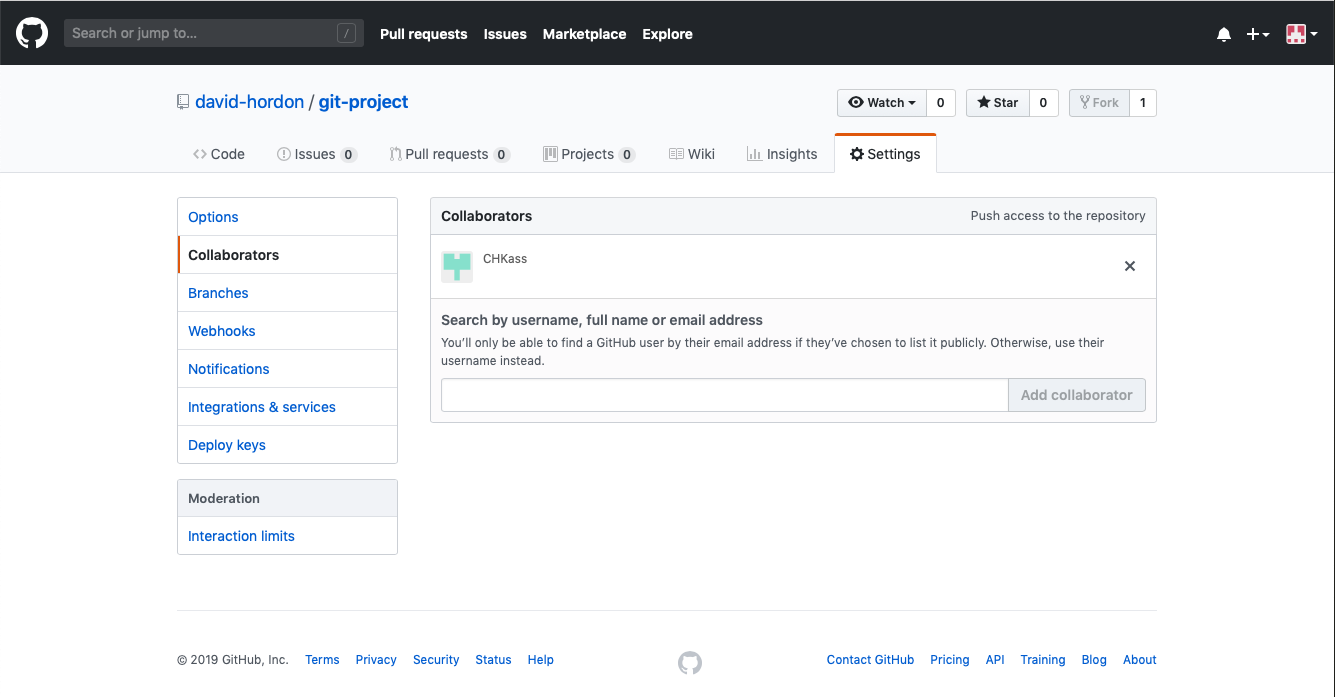
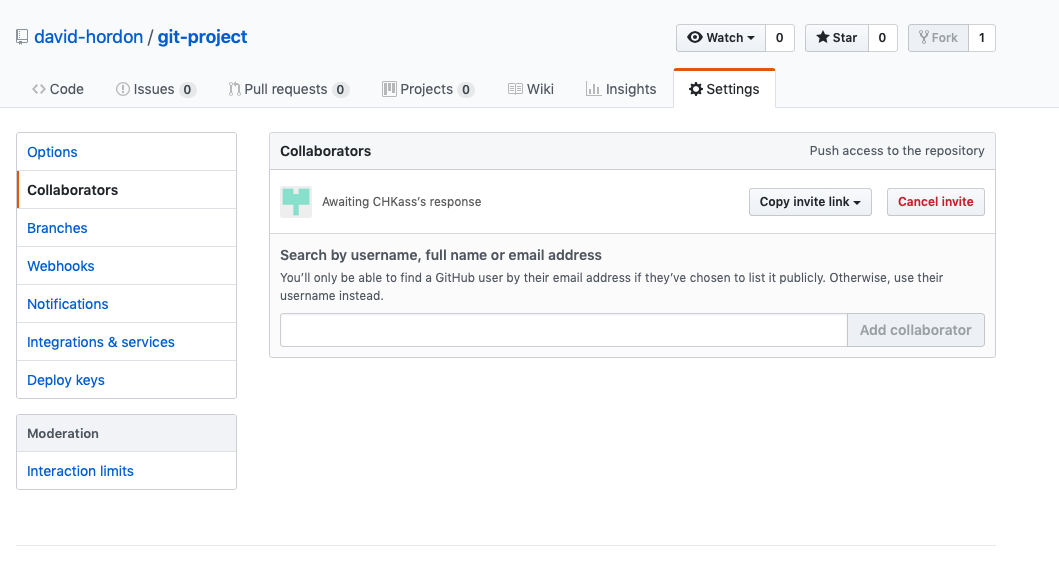
Updates on Collaborations

diff --git a/pageDavid.html b/pageDavid.html
@@ -54,11 +54,11 @@ img {
 
   <ul>
     <li><a href="#githubHelp">GitHub Help</a></li>
+    <li><a href="#collaborating">Collaborating on GitHub</a></li>
     <li><a href="#githubGlossary">GitHub Glossary</a></li>
     <li><a href="#theFork">More on the Fork</a></li>
     <li><a href="#githubFlow">The GitHub Flow</a></li>
     <li><a href="#learningLab">The GitHub Learning Lab</a></li>
-    <li><a href="#collaborating">Inviting a Collaboration</a></li>
     <li><a href="#githubWorkspace">The GitHub Workspace &lpar;Online&rpar;</a>
       <ul>
         <li><a href="#bannerPane">Banner, User, Repo, Description &amp; Website Panes</a>
@@ -81,21 +81,42 @@ img {
 
   <h2 id="githubHelp">GitHub Help</h2>
 
-  <p>You would think the best, most comprehensive, GitHub Help would be available from the <strong>Help</strong> menu. Not so with GitHub! The <strong>Help</strong> menu, so it seems to me, at best gives access to a seemingly desultory and ragbag assortment of 'Helps'. If you want a <em>comprehensive</em> and <em>organised</em> Help, try the Help option available on the Sign-in menu. But even this is not perfect.</p>
+  <p>You might think the best and most comprehensive GitHub help would be available from the <strong>Help</strong> menu. Not so on GitHub! The <strong>Help</strong> menu, so it seems, offers a rather desultory and ragbag assortment of 'Helps'. If you want a <em>comprehensive</em> and <em>organised</em> help, try the <strong>Help</strong> option available from the &quot;Signed in as&quot; menu.</p>
 
   <img src="images/sign-in-help.png">
 
-  <p>You can access <em>this</em> 'Help' by following <em>this</em> link: <a href="https://help.github.com/en">https://help.github.com/en</a>. &lpar;To open in a new tab, Right-click&mdash;Ctrl + click&mdash;the link, and choose 'Open Link in New Tab' from the sub&ndash;menu.&rpar; </p>
+  <p>You can also access <em>this</em> 'Help' by following the link: <a href="https://help.github.com/en">https://help.github.com/en</a>. To open in a new tab, Right-click &lpar;Ctrl + click&rpar; the link and choose 'Open Link in New Tab' from the sub&ndash;menu.</p>
 
   <a href="#top">Top</a>
   <hr>
 
-  <h2 id="collaborating">Collaborating on GitHub</h2>
+  <h1 id="collaborating">Collaborating on GitHub</h1>
 
-  <p>Detailed instructions on how to <a href="https://help.github.com/en/articles/inviting-collaborators-to-a-personal-repository">invite a collaborator</a> to join a private repository.</p>
+  <p>Detailed instructions on how to <a href="https://help.github.com/en/articles/inviting-collaborators-to-a-personal-repository">invite a collaborator</a> to join a private repository. Other links on this page give details about setting permissions, removing a collaborator, removing oneself from a collaboration, and organizing members into teams.</p>
 
-  <p>Other links on this page give details about setting permissions, removing a collaborator, removing oneself from a collaboration, and organizing members into teams.</p>
+  <p>Below are the steps I &lpar;the Inviter&rpar; took to invite a colleague into a collaboration; this is followed by the email I &lpar;now the Invitee&rpar; received when that same colleague invited me into his project.</p>
 
+  <h2>The Inviter</h2>
+  <p>To invite a person&lpar;s&rpar; into a collaboration:</p>
+  <ul>
+    <li><strong>Step 1</strong>: Go to the <strong>Settings</strong> tab.</li>
+    <li><strong>Step 2</strong>: Choose <strong>Collaborators</strong> (your password will be required).</li>
+    <li><strong>Step 3</strong>: Search GitHub for the person&lpar;s&rpar; you wish to invite.</li>
+    <li><strong>Step 4</strong>: Once found, press 'Add collaborator'&mdash;an invitation email will be sent.</li>
+    <li><strong>Step 5</strong>: Follow updates on, or edit, the invitation here.</li>
+  </ul>
+
+  <img src="images/collaborators1.png">
+
+
+
+  <h2>The Invitee</h2>
+  <p>If you've been invited into collaboration, you'll receive an email similar to the following. The two highlighted links take you to a page where you can choose to accept or decline the invitation.</p>
+  <img src="images/collaborators2.png">
+  <p>This is the page where you can <strong>Accept</strong> or <strong>Decline</strong> the invitation.</p>
+  <img src="images/collaborators3.png">
+
+  <br>
   <a href="#top">Top</a>
   <hr>
 
